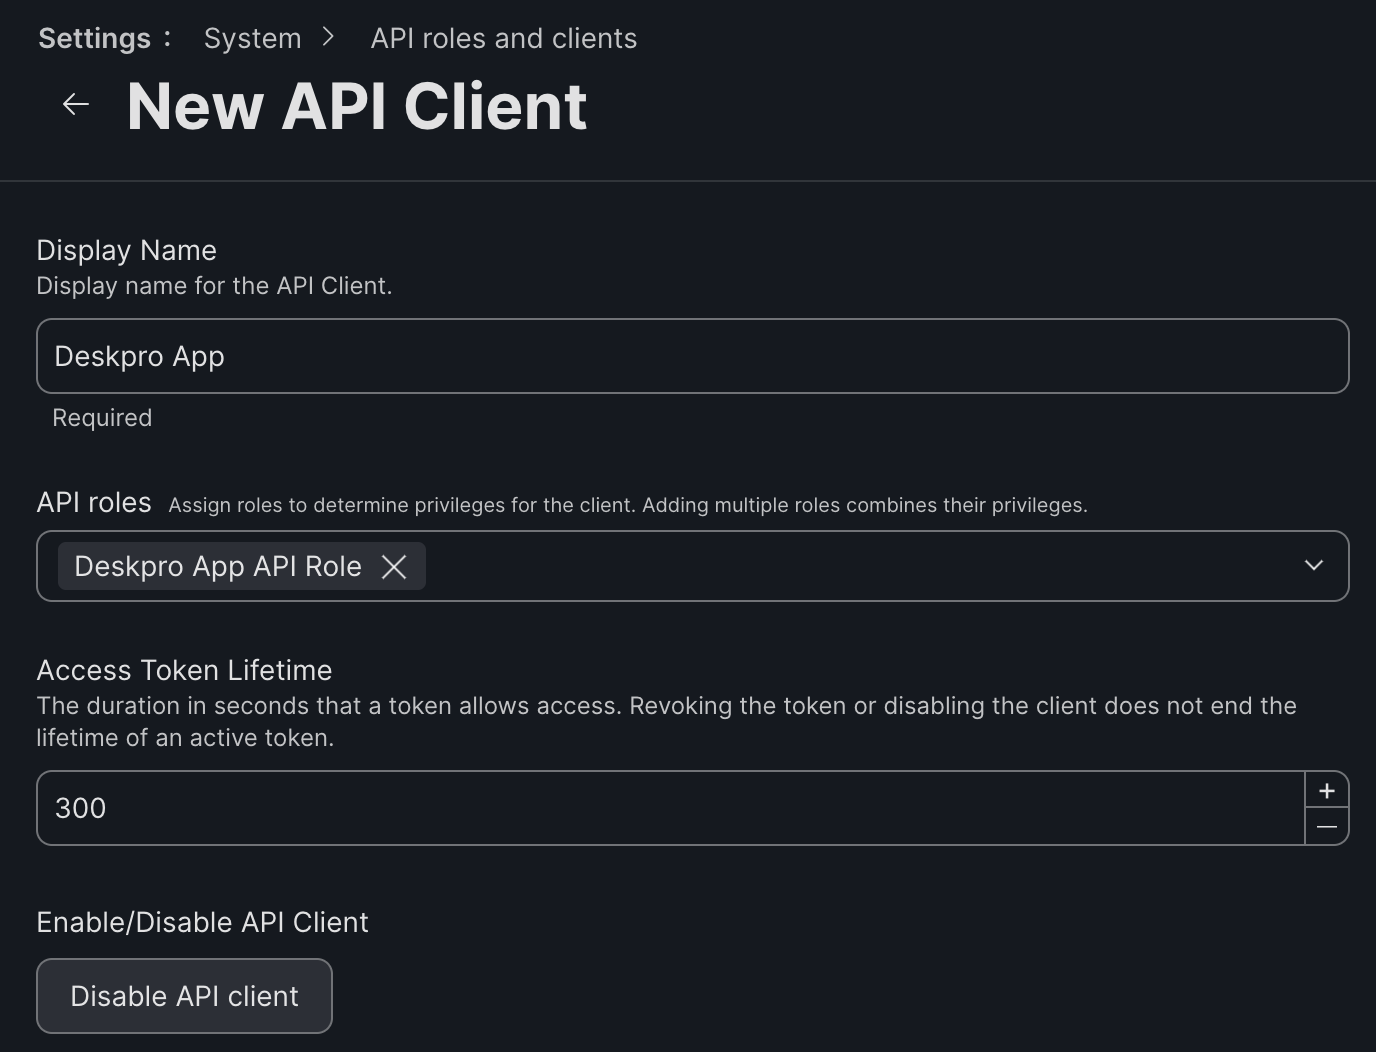
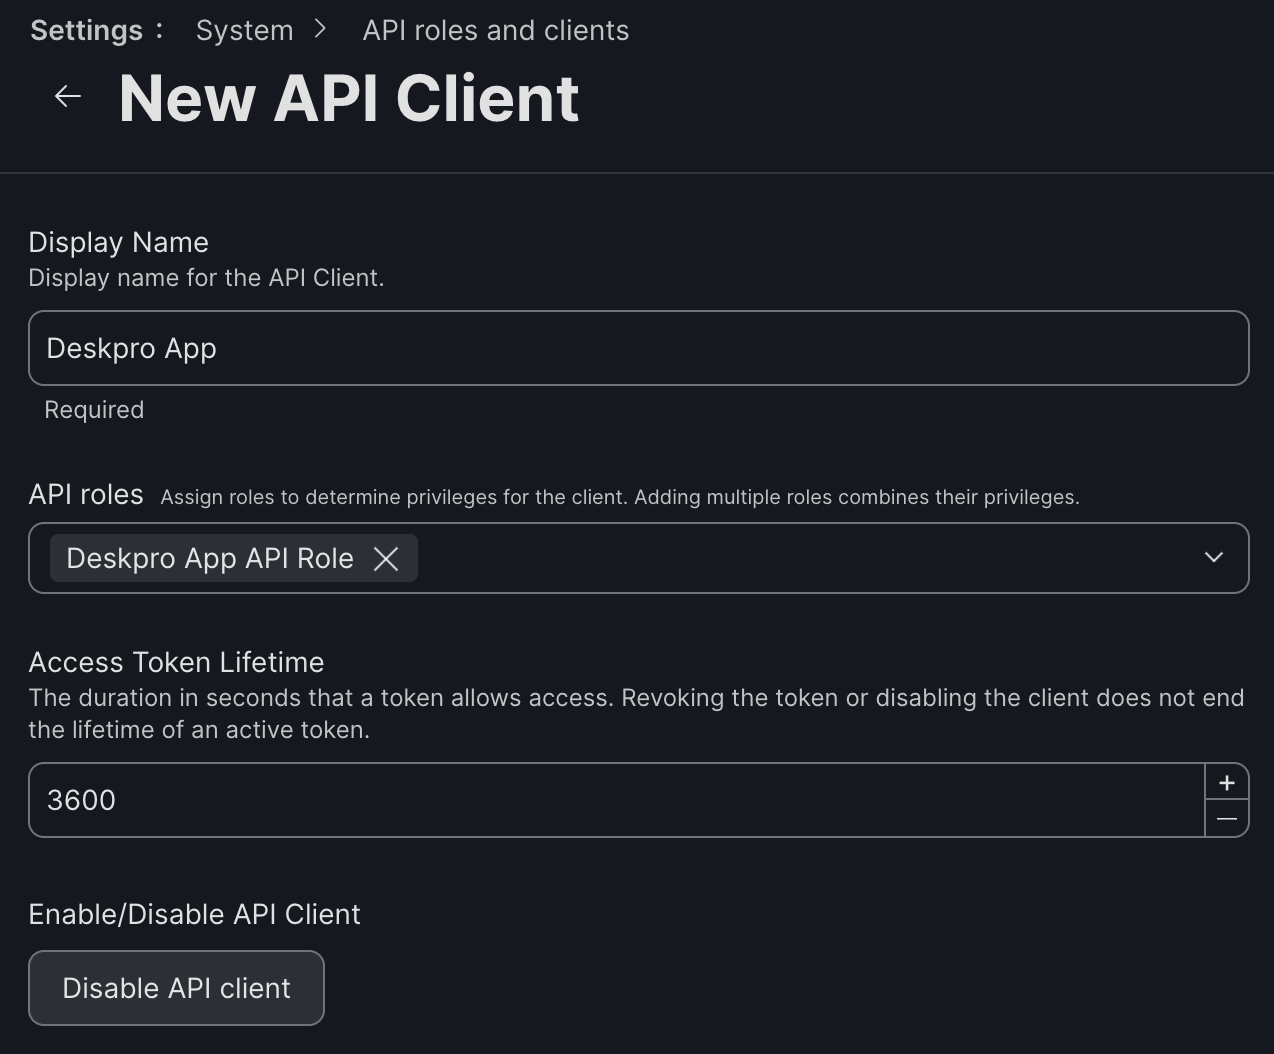
Updated setup guide and added button "Log In" if the token expired

diff --git a/src/App.tsx b/src/App.tsx
@@ -1,5 +1,7 @@
-import { useMemo } from "react";
+import { useMemo, useCallback } from "react";
+import { get } from "lodash";
 import { Routes, Route, useNavigate, useLocation } from "react-router-dom";
+import { ErrorBoundary } from "react-error-boundary";
 import { useDebouncedCallback } from "use-debounce";
 import { match } from "ts-pattern";
 import {
@@ -18,6 +20,7 @@ import {
   LoadingAppPage,
   LinkDevicesPage,
 } from "./pages";
+import { ErrorFallback } from "./components";
 import type { FC } from "react";
 import type { EventPayload } from "./types";
 
@@ -30,17 +33,21 @@ const App: FC = () => {
   const isAdmin = useMemo(() => pathname.includes("/admin/"), [pathname]);
   const isLoading = isLoadingLogout || isLoadingUnlink;
 
-  useDeskproElements(({ registerElement }) => {
-    registerElement("refresh", { type: "refresh_button" });
-  });
-
-  const debounceElementEvent = useDebouncedCallback((_, __, payload: EventPayload) => {
+  const handlePayload = useCallback((payload: EventPayload) => {
     return match(payload.type)
       .with("changePage", () => isNavigatePayload(payload) && navigate(payload.path))
       .with("logout", logout)
       .with("unlink", () => isUnlinkPayload(payload) && unlink(payload.device))
       .run();
+  }, [navigate, logout, unlink]);
+
+  const debounceElementEvent = useDebouncedCallback((_, __, payload: EventPayload) => {
+    handlePayload(payload);
   }, 500);
+
+  useDeskproElements(({ registerElement }) => {
+    registerElement("refresh", { type: "refresh_button" });
+  });
 
   useDeskproAppEvents({
     onShow: () => {
@@ -58,7 +65,10 @@ const App: FC = () => {
   }
 
   return (
-    <>
+    <ErrorBoundary
+      FallbackComponent={ErrorFallback}
+      onReset={(payload) => handlePayload(get(payload, ["args", 0]))}
+    >
       <Routes>
         <Route path="/admin/verify_settings" element={<VerifySettings/>} />
         <Route path="/login" element={<LoginPage/>}/>
@@ -68,7 +78,7 @@ const App: FC = () => {
         <Route index element={<LoadingAppPage/>} />
       </Routes>
       {!isAdmin && (<><br/><br/><br/></>)}
-    </>
+    </ErrorBoundary>
   );
 };
 

diff --git a/src/components/Error/ErrorFallback.tsx b/src/components/Error/ErrorFallback.tsx
@@ -3,16 +3,17 @@ import { match } from "ts-pattern";
 import { Stack } from "@deskpro/deskpro-ui";
 import { DEFAULT_ERROR } from "../../constants";
 import { JamfError } from "../../services/jamf";
-import { Container, ErrorBlock } from "../common";
+import { Button, Container, ErrorBlock } from "../common";
 import type { FC } from "react";
 import type { FallbackProps } from "react-error-boundary";
 
 type Props = Omit<FallbackProps, "error"> & {
-  error: Error,
+  error: Error|JamfError,
 };
 
-const ErrorFallback: FC<Props> = ({ error }) => {
+const ErrorFallback: FC<Props> = ({ error, resetErrorBoundary }) => {
   let message = DEFAULT_ERROR;
+  let button = null;
   let consoleMessage;
 
   if (error instanceof JamfError) {
@@ -26,6 +27,16 @@ const ErrorFallback: FC<Props> = ({ error }) => {
         || get(error, ["data", "errors", 0, "description"])
         || DEFAULT_ERROR
       )
+
+    button = match(get(error, ["data", "httpStatus"]))
+      .with(401, () => (
+        <Button
+          text="Log In"
+          intent="secondary"
+          onClick={() => resetErrorBoundary({ type: "changePage", path: "/login" })}
+        />
+      ))
+      .otherwise(() => null);
   }
 
   // eslint-disable-next-line no-console
@@ -37,6 +48,7 @@ const ErrorFallback: FC<Props> = ({ error }) => {
         text={(
           <Stack gap={6} vertical style={{ padding: "8px" }}>
             {message}
+            {button}
           </Stack>
         )}
       />

diff --git a/src/main.tsx b/src/main.tsx
@@ -6,7 +6,7 @@ import { ErrorBoundary } from "react-error-boundary";
 import { DeskproAppProvider, LoadingSpinner } from "@deskpro/app-sdk";
 import { queryClient } from "./query";
 import { App } from "./App";
-import { ErrorFallback } from "./components";
+import { ErrorBlock, Container } from "./components/common";
 import "@deskpro/deskpro-ui/dist/deskpro-ui.css";
 import "@deskpro/deskpro-ui/dist/deskpro-custom-icons.css";
 
@@ -17,7 +17,7 @@ root.render((
       <HashRouter>
         <QueryClientProvider client={queryClient}>
           <Suspense fallback={<LoadingSpinner/>}>
-            <ErrorBoundary FallbackComponent={ErrorFallback}>
+            <ErrorBoundary fallbackRender={() => (<Container><ErrorBlock/></Container>)}>
               <App />
             </ErrorBoundary>
           </Suspense>

diff --git a/src/pages/LoadingAppPage/hooks.ts b/src/pages/LoadingAppPage/hooks.ts
@@ -11,7 +11,7 @@ import type { UserContext } from "../../types";
 
 type UseCheckAuth = () => void;
 
-const useCheckAuth: UseCheckAuth = () => {
+const useLoadingApp: UseCheckAuth = () => {
   const navigate = useNavigate();
   const { context } = useDeskproLatestAppContext() as { context: UserContext };
   const dpUserId = useMemo(() => get(context, ["data", "user", "id"]), [context]);
@@ -28,4 +28,4 @@ const useCheckAuth: UseCheckAuth = () => {
   }, [dpUserId]);
 };
 
-export { useCheckAuth };
+export { useLoadingApp };

diff --git a/src/pages/LoadingAppPage/LoadingAppPage.tsx b/src/pages/LoadingAppPage/LoadingAppPage.tsx
@@ -1,10 +1,10 @@
 import { LoadingSpinner } from "@deskpro/app-sdk";
 import { useSetTitle } from "../../hooks";
-import { useCheckAuth } from "./hooks";
+import { useLoadingApp } from "./hooks";
 import type { FC } from "react";
 
 const LoadingAppPage: FC = () => {
-  useCheckAuth();
+  useLoadingApp();
 
   useSetTitle("Jamf Pro");
 

diff --git a/SETUP.md b/SETUP.md
@@ -28,7 +28,7 @@ Click on "Save" and return and navigate to the "API Clients" tab. Then click on 
 Here, we fill out the following fields:
 1. Provide the __Display Name__ as "Deskpro App" (or any preferred name);
 2. Select the __API Roles__ that we made in the previous step;
-3. Set the __Access Token Lifetime to 300 sec;
+3. Set the __Access Token Lifetime__ to 3600 sec or your preferred duration;
 4. And __Enable API client__.
 
 [![](/docs/assets/setup/setup-jamf-05.png)](/docs/assets/setup/setup-jamf-05.png)
